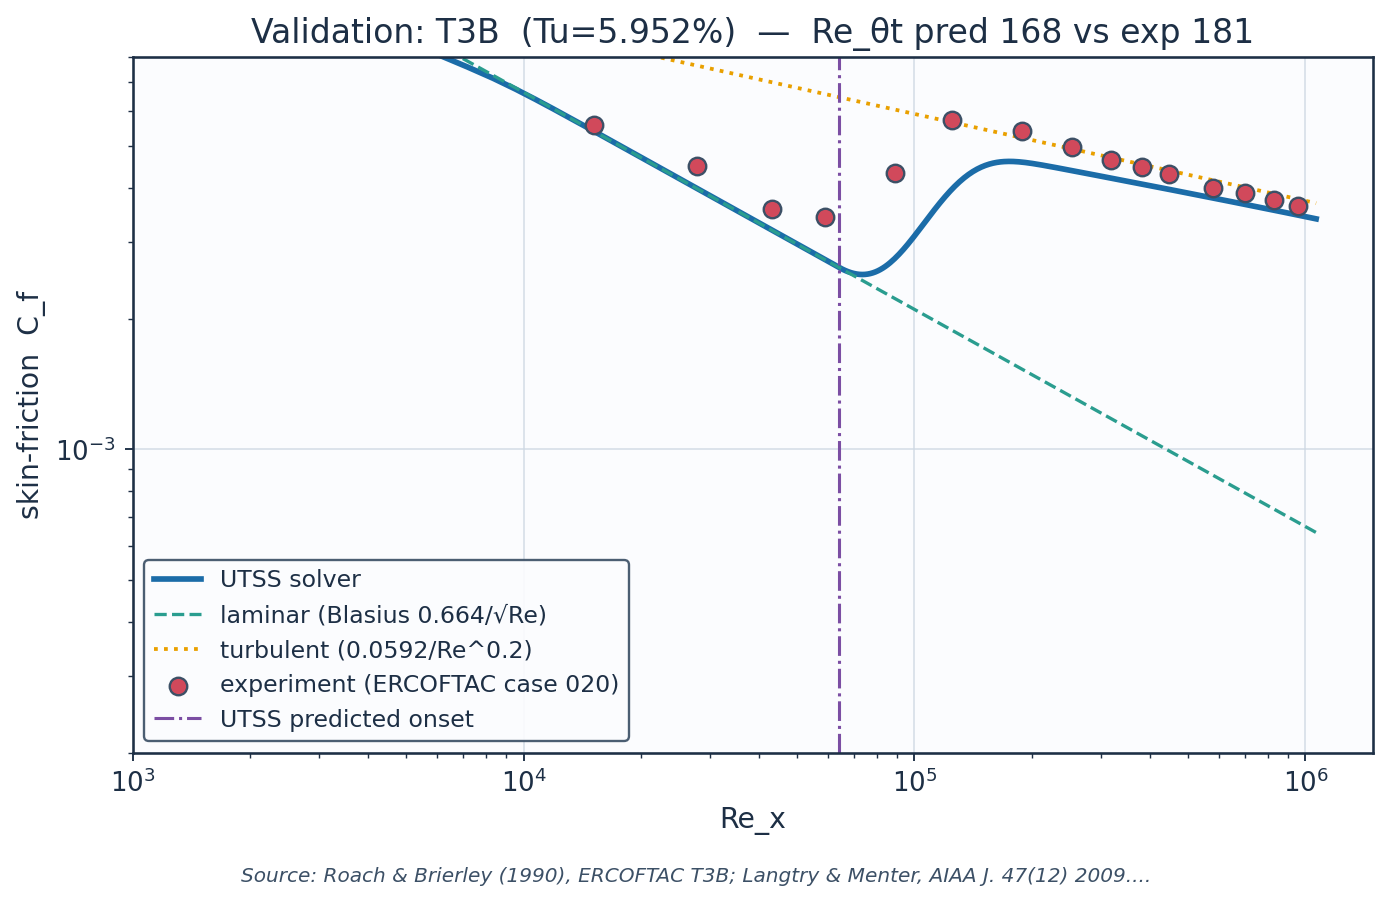
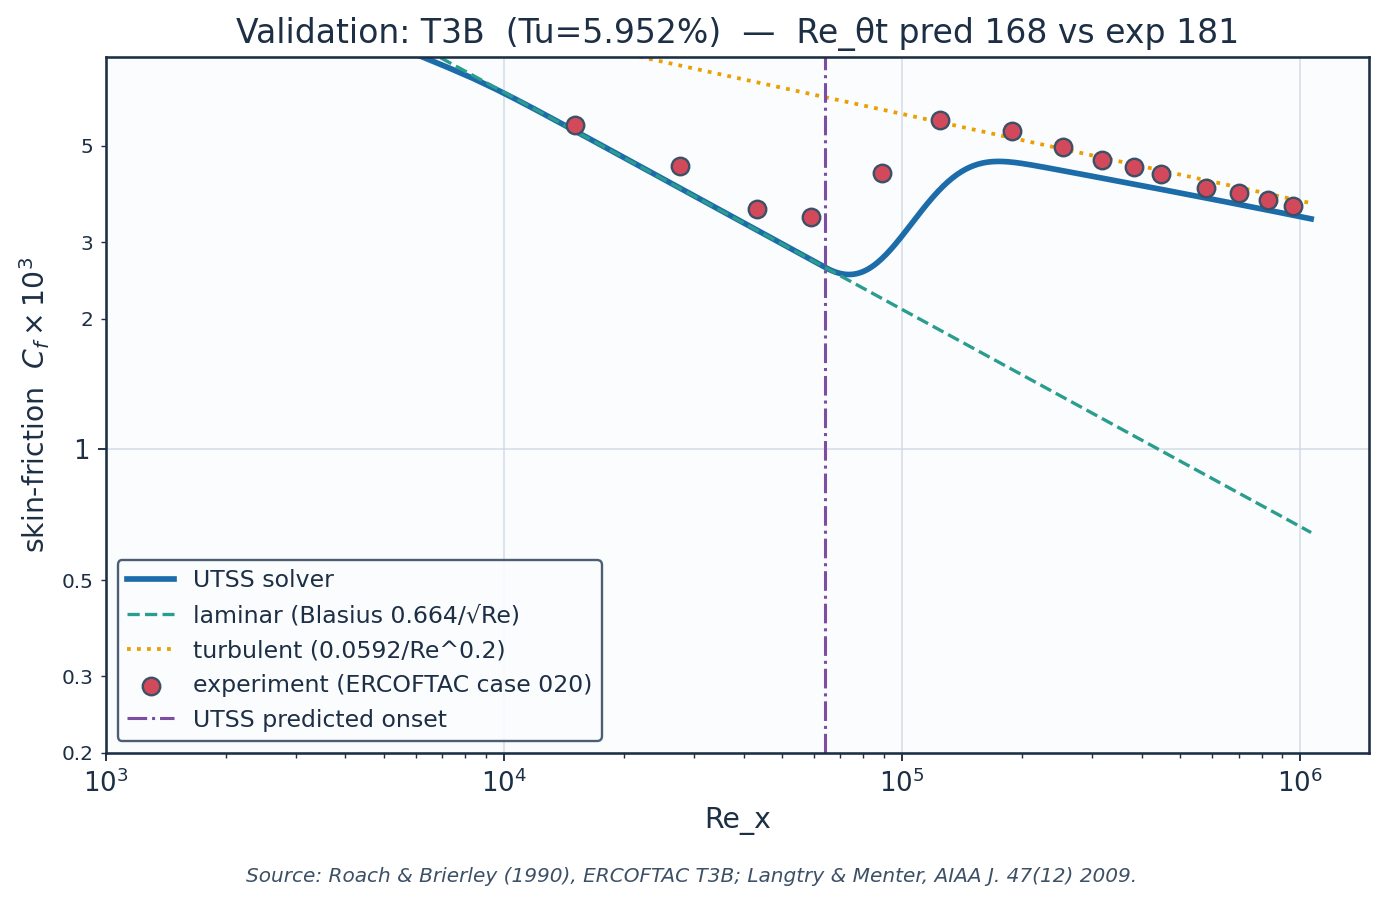
Five figures with one labelled tick on the axis that carries the result
Pass fourteen.

The five per-case validation figures plot C_f from 2e-4 to 8e-3.  That range
contains exactly ONE decade boundary, so matplotlib's log locator labelled a
single tick - "10^-3" - and there was no way to read any other value off the
axis on the figure whose whole subject is the skin-friction level.  Minor
decades are labelled now, and BOTH major and minor in the same units, C_f x
10^3, with the axis label to match: labelling only the minors while the one
major stayed "10^-3" put two conventions on one axis, which is worse than the
single label it replaced.

The per-case caption was the third fixed-width source truncation, and the one
I missed last pass: line 371 turned out to be the swept-wing figure's, not
this one's.  All three cut at a word boundary now and there are no fixed-width
truncations left anywhere in the generators.

37 smoke checks, all nine stages, and verify_outputs on the re-rendered
report: all pass.

diff --git a/gen_validation.py b/gen_validation.py
@@ -39,6 +39,7 @@ from utss_solver import solve_flat_plate, solve_airfoil, panel_solve, CAL
 from uplot import apply_style, INK, INK_SOFT, PALETTE, new_fig, finish
 import matplotlib.pyplot as plt
 from matplotlib.lines import Line2D
+from matplotlib.ticker import LogLocator, FuncFormatter
 
 apply_style()
 VAL="06_validation"; VP=os.path.join(VAL,"plots"); os.makedirs(VP,exist_ok=True)
@@ -1601,6 +1602,21 @@ def plot_case(key):
                color=PALETTE[4],ls="-.",lw=1.3,label="UTSS predicted onset")
     ax.set_xlabel("Re_x"); ax.set_ylabel("skin-friction  C_f")
     ax.set_ylim(2e-4,8e-3)
+    # A log axis over 2e-4 to 8e-3 contains ONE decade boundary, so the default
+    # locator labelled a single tick - "10^-3" - and left the reader with no
+    # way to read any other value off the axis on all five of these figures.
+    # The minor decades are labelled as plain numbers instead.
+    # Both the major and the minor ticks in the SAME units.  Labelling the
+    # minors as C_f x 10^3 while the one major tick stayed "10^-3" put two
+    # conventions on one axis, which is worse than the single unreadable label
+    # it replaced.
+    _kilo = FuncFormatter(
+        lambda y, _: ("%g" % (y*1e3)) if 2e-4 <= y <= 8e-3 else "")
+    ax.yaxis.set_minor_locator(LogLocator(base=10.0, subs=(2, 3, 5), numticks=12))
+    ax.yaxis.set_minor_formatter(_kilo)
+    ax.yaxis.set_major_formatter(_kilo)
+    ax.tick_params(axis="y", which="minor", labelsize=8.5)
+    ax.set_ylabel(r"skin-friction  $C_f \times 10^{3}$")
     # the march starts at x = 1e-4 m, so autoscaling put two empty decades of
     # Re_x to the left of anything worth reading
     _rx = np.asarray(r["Re_x"], float)
@@ -1611,7 +1627,7 @@ def plot_case(key):
                  f"Re_θt pred {r['Re_theta'][r['i_tr']]:.0f} vs exp {ex['Re_theta_t']:.0f}")
     ax.legend(loc="lower left",fontsize=10)
     finish(fig,f"{VP}/val_{key}.png",
-           caption=f"Source: {v['source'][:95]}...")
+           caption="Source: "+_cite(v["source"]))
 
 def _cite(source, n=95):
     """A figure-caption citation cut at a WORD boundary, not mid-word.
